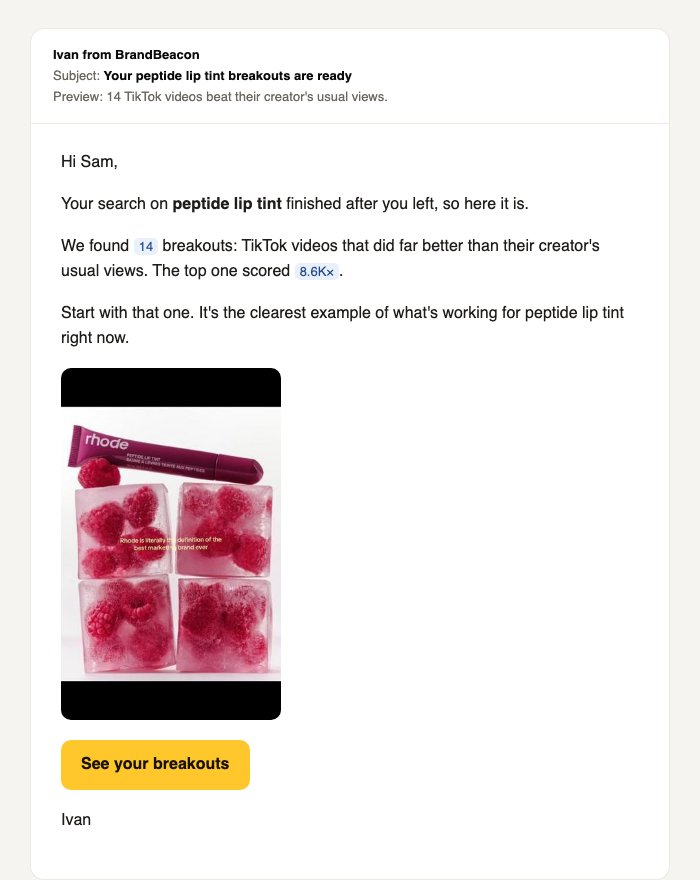
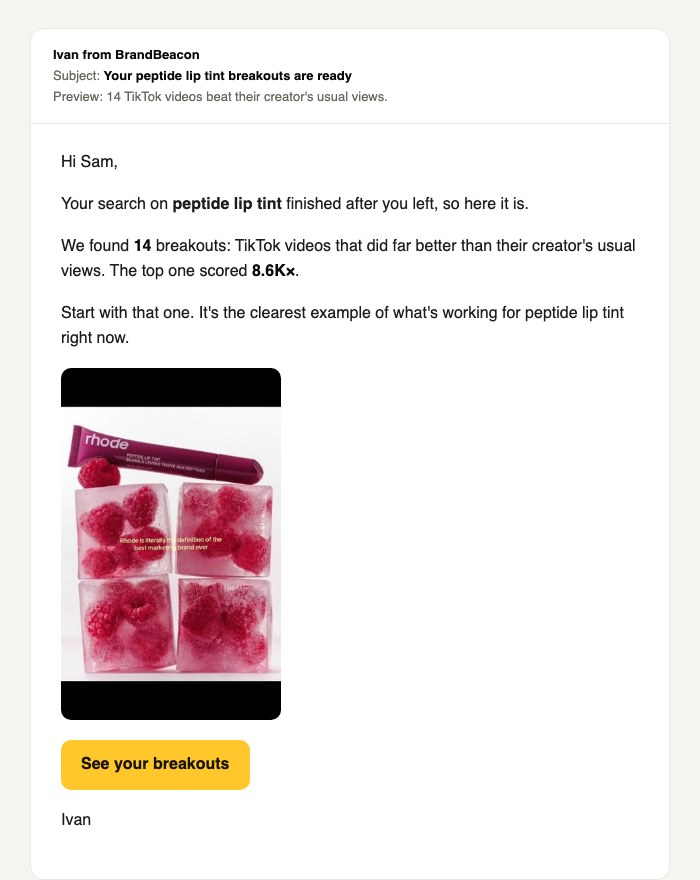
BB 3.0 email: numbers as plain bold text, email source kept in bb-3/src

Changed region(s): [[0.09, 0.2761, 0.9, 0.3375]]

diff --git a/bb-3/index.html b/bb-3/index.html
@@ -79,7 +79,7 @@ footer{max-width:1800px;margin:0 auto;padding:24px;color:var(--muted);font-size:
 <p>The designs are clickable. Press <b>Scroll inside</b> on any screen to scroll it like the real app, or open it full size. Numbers come from the real rhode skin run (18 Sep) unless marked <span class="sample">SAMPLE</span>.</p>
 <div class="chips"><a class="go" href="app.html" target="_blank" rel="noopener">Open the clickable prototype</a><a href="app.html#home" target="_blank" rel="noopener">Home</a><a href="app.html#home-typing" target="_blank" rel="noopener">Typing</a><a href="app.html#home-running" target="_blank" rel="noopener">Search running</a><a href="app.html#expand" target="_blank" rel="noopener">Keywords</a><a href="app.html#home-checklist" target="_blank" rel="noopener">Checklist</a><a href="app.html#results" target="_blank" rel="noopener">Results</a><a href="app.html#home-nofeed" target="_blank" rel="noopener">Home without feed</a><a href="first-search.html#a" target="_blank" rel="noopener">First search: A, B, C</a></div>
 </section>
-<section class="row" id="one-search"><h2><span class="num">1</span>One search for brands and products</h2><div class="pair"><div class="col"><figure class="shot"><figcaption><span class="pill">BEFORE</span>Search, live on 11 Oct<a href="../img/live-oct11-feed.jpg" target="_blank" rel="noopener">Open full size</a></figcaption><p class="cap">Brand / Product toggle, then Find breakouts</p><div class="imgwrap" style="max-height:260px"><img src="../img/live-oct11-feed.jpg" alt="Before: Search, live on 11 Oct" loading="lazy"></div></figure></div><div class="col stick"><figure class="shot"><figcaption><span class="pill after">AFTER</span>One box, account first<a href="app.html#home-typing" target="_blank" rel="noopener">Open full size</a></figcaption><div class="withnotes"><div class="scaler" data-w="1440" data-h="1932"><iframe data-page="app.html" data-state="home-typing" data-v="1791660109" src="app.html?shot&v=1791660109#home-typing" title="One box, account first" loading="lazy" width="1440" height="1932"></iframe></div><ol class="annot"><li data-frac="0.0200"><span class="n">1</span><b>No Brand / Product toggle.</b> One box: Search a brand, product or keyword. <i>Ivan, 6 Oct: "having one search. No picking, you just put the keyword."</i></li><li data-frac="0.0700"><span class="n">2</span><b>Ours:</b> if the term matches a TikTok account, it shows first in the dropdown.</li><li data-frac="0.1200"><span class="n">3</span>Find breakouts still opens the keyword step, as on live today (row 2).</li><li data-frac="0.1600"><span class="n">4</span>Brands and Products rows under the search, before typing. <i>Ivan, 6 Oct: "suggest brands, suggest products, suggest hashtags, maybe."</i></li></ol></div></figure></div></div><p class="ivan"><b>For Ivan:</b> when "rhode" matches @rhodeskin, should the results open as the brand page (as live does today), with keyword breakouts mixed in?</p></section><section class="row" id="suggestions"><h2><span class="num">2</span>Smarter keyword suggestions</h2><div class="pair"><div class="col"><figure class="shot"><figcaption><span class="pill">BEFORE</span>Keyword step, live on 11 Oct<a href="../img/live-oct11-expand-panel.jpg" target="_blank" rel="noopener">Open full size</a></figcaption><p class="cap">rhode still suggests rhode jewelry, earrings and necklace</p><div class="imgwrap"><img src="../img/live-oct11-expand-panel.jpg" alt="Before: Keyword step, live on 11 Oct" loading="lazy"></div></figure></div><div class="col stick"><figure class="shot"><figcaption><span class="pill after">AFTER</span>Same keyword step, smarter suggestions<a href="app.html#expand" target="_blank" rel="noopener">Open full size</a></figcaption><div class="withnotes"><div class="scaler" data-w="1440" data-h="2117"><iframe data-page="app.html" data-state="expand" data-v="1791660109" src="app.html?shot&v=1791660109#expand" title="Same keyword step, smarter suggestions" loading="lazy" width="1440" height="2117"></iframe></div><ol class="annot"><li data-frac="0.0100"><span class="n">1</span>Same panel as live, in place of the search box: Add keywords, Suggest different keywords, Add a keyword, Cancel, Run search.</li><li data-frac="0.0700"><span class="n">2</span><b>Keywords read the term</b>, so rhode gets lip tint, peptide lip treatment and glazing milk, not jewelry. <i>Ivan: "takes the current keyword and it reads it and then suggests keywords based on it."</i></li><li data-frac="0.1200"><span class="n">3</span><b>Similar brands</b> row. <i>Ivan: "here's a hot sauce keyword, give me all the hot sauce brands."</i></li></ol></div></figure></div></div><p class="ivan"><b>For Ivan:</b> hashtags in the suggestions too? You said "maybe" on the call; on 30 Sep you said we search keywords only, so they are out of this mock.</p></section><section class="row" id="results-data"><h2><span class="num">3</span>Results page data</h2><div class="pair"><div class="col"><figure class="shot"><figcaption><span class="pill">BEFORE</span>Results, live on 11 Oct<a href="../img/live-oct11-results.jpg" target="_blank" rel="noopener">Open full size</a></figcaption><p class="cap">Breakouts this refresh, Top Breakout Score, Last refresh</p><div class="imgwrap" style="max-height:1000px"><img src="../img/live-oct11-results.jpg" alt="Before: Results, live on 11 Oct" loading="lazy"></div></figure></div><div class="col stick"><figure class="shot"><figcaption><span class="pill after">AFTER</span>Live results page, new top numbers<a href="app.html#results" target="_blank" rel="noopener">Open full size</a></figcaption><div class="withnotes"><div class="scaler" data-w="1440" data-h="2192"><iframe data-page="app.html" data-state="results" data-v="1791660109" src="app.html?shot&v=1791660109#results" title="Live results page, new top numbers" loading="lazy" width="1440" height="2192"></iframe></div><ol class="annot"><li data-frac="0.0300"><span class="n">1</span>Header, Export creator list, save, WEEKLY, last run and next refresh, Ready: all as live.</li><li data-frac="0.1000"><span class="n">2</span><b>Average Breakout Score</b> replaces the Last refresh box (last and next run are already in the header). <i>Ivan, 6 Oct: "number of breakouts in this run. Average breakout score."</i> The value is a sample.</li><li data-frac="0.1700"><span class="n">3</span>Quiet second line: videos this run, new this run, top views, average views, first run. <i>Ivan: "top views, average views, and then top score, average score."</i></li><li data-frac="0.2100"><span class="n">4</span>Tabs, New this run and Breakout Score filters, cards with all four stats, Analyze and save: as live.</li><li data-frac="0.9400"><span class="n">5</span>Insights, AI summary, Analytics, When they post, More data and Hashtags: unchanged from live.</li></ol></div></figure></div></div><p class="ivan"><b>For Ivan:</b> average Breakout Score, as you said? Our suggestion was median, since one 8.6K× video pulls an average far above a typical breakout (40 of the 55 sit between 3× and 8×).</p></section><section class="row" id="sidebar"><h2><span class="num">4</span>Left sidebar: saved searches, video analyses, search history</h2><div class="pair"><div class="col"><figure class="shot"><figcaption><span class="pill">BEFORE</span>Sidebar, live on 11 Oct<a href="../img/live-oct11-sidebar.jpg" target="_blank" rel="noopener">Open full size</a></figcaption><p class="cap">My Feed, Brand searches, Product searches, Library, Breakdowns</p><div class="imgwrap"><img src="../img/live-oct11-sidebar.jpg" alt="Before: Sidebar, live on 11 Oct" loading="lazy" style="width:auto;max-width:min(100%,252px);margin:16px auto;border-radius:12px"></div></figure></div><div class="col stick"><figure class="shot"><figcaption><span class="pill after">AFTER</span>Library items up front<a href="app.html#home-running" target="_blank" rel="noopener">Open full size</a></figcaption><div class="withnotes"><div class="scaler" data-w="1440" data-h="1932"><iframe data-page="app.html" data-state="home-running" data-v="1791660109" src="app.html?shot&v=1791660109#home-running" title="Library items up front" loading="lazy" width="1440" height="1932"></iframe></div><ol class="annot"><li data-frac="0.0200"><span class="n">1</span><b>Saved searches, Saved videos, Video analyses, Search history</b> up front: the four Library tabs. <i>Ivan, 6 Oct: "why hide them behind the library if we can just put them up front?"</i></li><li data-frac="0.0800"><span class="n">2</span>Brand searches and Product searches become one Saved searches list, since search is now one box.</li><li data-frac="0.1300"><span class="n">3</span><b>Ours:</b> a search that is still running shows here with a progress bar, then a toast when it is ready.</li><li data-frac="0.8600"><span class="n">4</span><b>Searches added</b> next to Breakdowns (live shows searches only on Library and mobile). <i>Ivan: "searches, breakdowns, etc. in this little bar."</i></li></ol></div></figure></div></div><p class="ivan"><b>For Ivan:</b> keep a Library page for its filters and manage options, reached from "See all" in each list?</p></section><section class="row" id="my-feed"><h2><span class="num">5</span>My Feed: keep, or replace with search terms</h2><div class="pair"><div class="col"><figure class="shot"><figcaption><span class="pill">BEFORE</span>My Feed, live on 11 Oct<a href="../img/live-oct11-feed.jpg" target="_blank" rel="noopener">Open full size</a></figcaption><p class="cap">One column feed with This week, Your searches, Hashtags and Climbing</p><div class="imgwrap" style="max-height:900px"><img src="../img/live-oct11-feed.jpg" alt="Before: My Feed, live on 11 Oct" loading="lazy"></div></figure></div><div class="col stick"><figure class="shot"><figcaption><span class="pill after">AFTER</span>Keep: My Feed as live<a href="app.html#home" target="_blank" rel="noopener">Open full size</a></figcaption><div class="withnotes"><div class="scaler" data-w="1440" data-h="1932"><iframe data-page="app.html" data-state="home" data-v="1791660109" src="app.html?shot&v=1791660109#home" title="Keep: My Feed as live" loading="lazy" width="1440" height="1932"></iframe></div><ol class="annot"><li data-frac="0.0200"><span class="n">1</span>Only the search box changes (rows 1 and 2).</li><li data-frac="0.1800"><span class="n">2</span>Feed cards, Load more and the right sidebar stay exactly as live.</li></ol></div></figure><figure class="shot"><figcaption><span class="pill after">AFTER</span>Remove: Home without the feed <span class="tag pick">Our pick</span><a href="app.html#home-nofeed" target="_blank" rel="noopener">Open full size</a></figcaption><div class="withnotes"><div class="scaler" data-w="1440" data-h="1053"><iframe data-page="app.html" data-state="home-nofeed" data-v="1791660109" src="app.html?shot&v=1791660109#home-nofeed" title="Remove: Home without the feed" loading="lazy" width="1440" height="1053"></iframe></div><ol class="annot"><li data-frac="0.0400"><span class="n">1</span>Search and suggestions, then one row of 3 new breakouts from saved searches.</li><li data-frac="0.3000"><span class="n">2</span>Reads stored results only, so it opens instantly.</li></ol></div></figure></div></div><p class="ivan"><b>For Ivan:</b> keep My Feed or remove it? On the call: "I don't even know if we should have one. I think we should just have search terms." Both versions are above.</p></section><section class="row" id="onboarding"><h2><span class="num">6</span>Onboarding checklist</h2><div class="pair"><div class="col"><figure class="shot"><figcaption><span class="pill">BEFORE</span>Onboarding</figcaption><div class="none"><b>Not in the live app</b>Not on live: new accounts land on My Feed with no next step.</div></figure></div><div class="col stick"><figure class="shot"><figcaption><span class="pill after">AFTER</span>Get started, from the sidebar<a href="app.html#home-checklist" target="_blank" rel="noopener">Open full size</a></figcaption><div class="withnotes"><div class="scaler" data-w="1440" data-h="1932"><iframe data-page="app.html" data-state="home-checklist" data-v="1791660109" src="app.html?shot&v=1791660109#home-checklist" title="Get started, from the sidebar" loading="lazy" width="1440" height="1932"></iframe></div><ol class="annot"><li data-frac="0.8000"><span class="n">1</span>A <b>1 of 4 done</b> card above the usage meters; click to see the steps. <i>Ivan, 6 Oct: "do your first brand search, do your first analysis, do your first whatever."</i></li><li data-frac="0.8400"><span class="n">2</span>Steps: run a search, analyze a video, save a search, save a video. All four exist on live today.</li><li data-frac="0.8800"><span class="n">3</span>It goes away once all four are done.</li></ol></div></figure></div></div><p class="ivan"><b>For Ivan:</b> Free gets 0 video analyses today, so a Free user can't finish "Analyze a video". Give Free one analysis, or swap that step out for Free?</p></section><section class="row" id="first-search"><h2><span class="num">7</span>First search journey: where BB drops people after Run search</h2><div class="pair"><div class="col"><figure class="shot"><figcaption><span class="pill">BEFORE</span>After Run search, live on 22 Sep<a href="../user-flow/img/bb-building.jpg" target="_blank" rel="noopener">Open full size</a></figcaption><p class="cap">A loading page with nothing to do while the report builds</p><div class="imgwrap"><img src="../user-flow/img/bb-building.jpg" alt="Before: After Run search, live on 22 Sep" loading="lazy" style="width:auto;max-width:min(100%,420px);margin:16px auto;border-radius:12px"></div></figure></div><div class="col stick"><figure class="shot"><figcaption><span class="pill after">AFTER</span>A. Wait and learn <span class="tag pick">Pick: first search</span><a href="first-search.html#a" target="_blank" rel="noopener">Open full size</a></figcaption><div class="withnotes"><div class="scaler" data-w="1440" data-h="1219"><iframe data-page="first-search.html" data-state="a" data-v="1791660109" src="first-search.html?shot&v=1791660109#a" title="A. Wait and learn" loading="lazy" width="1440" height="1219"></iframe></div><ol class="annot"><li data-frac="0.0800"><span class="n">1</span>Three steps that say what is happening, like UGC Breakouts processing.</li><li data-frac="0.2600"><span class="n">2</span><b>Email me when it is ready</b> is on by default and says they can leave.</li><li data-frac="0.3800"><span class="n">3</span>A <b>How to read your results</b> video, so the Breakout Score makes sense when results land.</li><li data-frac="0.5000"><span class="n">4</span>Then breakouts other searches found this week.</li></ol></div></figure><figure class="shot"><figcaption><span class="pill after">AFTER</span>B. Back to Home and keep browsing <span class="tag">Ivan's idea</span><a href="first-search.html#b" target="_blank" rel="noopener">Open full size</a></figcaption><div class="withnotes"><div class="scaler" data-w="1440" data-h="900"><iframe data-page="first-search.html" data-state="b" data-v="1791660109" src="first-search.html?shot&v=1791660109#b" title="B. Back to Home and keep browsing" loading="lazy" width="1440" height="900"></iframe></div><ol class="annot"><li data-frac="0.0300"><span class="n">1</span>Run search lands on Home. A slim bar says it is running, with See progress.</li><li data-frac="0.2800"><span class="n">2</span><b>Pick for every search after the first.</b> On the first one, the browse row is easy to misread as their results.</li></ol></div></figure><figure class="shot"><figcaption><span class="pill after">AFTER</span>C. Results appear as they are found <span class="tag">Needs Lester</span><a href="first-search.html#c" target="_blank" rel="noopener">Open full size</a></figcaption><div class="withnotes"><div class="scaler" data-w="1440" data-h="900"><iframe data-page="first-search.html" data-state="c" data-v="1791660109" src="first-search.html?shot&v=1791660109#c" title="C. Results appear as they are found" loading="lazy" width="1440" height="900"></iframe></div><ol class="annot"><li data-frac="0.0800"><span class="n">1</span><b>2 breakouts so far. Still checking 140 of 200 videos.</b></li><li data-frac="0.3300"><span class="n">2</span>No empty wait. Depends on scoring videos one at a time (Lester).</li></ol></div></figure><figure class="shot"><figcaption><span class="pill after">AFTER</span>Ready, the same for A, B and C<a href="first-search.html#ready" target="_blank" rel="noopener">Open full size</a></figcaption><div class="withnotes"><div class="scaler" data-w="1440" data-h="900"><iframe data-page="first-search.html" data-state="ready" data-v="1791660109" src="first-search.html?shot&v=1791660109#ready" title="Ready, the same for A, B and C" loading="lazy" width="1440" height="900"></iframe></div><ol class="annot"><li data-frac="0.0800"><span class="n">1</span>All three keep the search in the sidebar, email when it is ready, and end here.</li><li data-frac="0.2200"><span class="n">2</span>Thumbnails reuse the rhode skin run; "usually 1 to 2 minutes" is from the 22 Sep test.</li></ol></div></figure></div></div><p class="ivan"><b>For Ivan:</b> A for the first search, B for every search after that? And is the how-to video the one from the UGC Breakouts processing screen, or a BB version?</p></section><section class="row" id="first-email"><h2><span class="num">8</span>First search complete email</h2><div class="pair"><div class="col"><figure class="shot"><figcaption><span class="pill">BEFORE</span>Results ready email</figcaption><div class="none"><b>Not in the live app</b>B1 Results ready was drafted in the free flow emails, not confirmed live.</div></figure></div><div class="col stick"><figure class="shot"><figcaption><span class="pill after">AFTER</span>Sent once, after the first search<a href="shots/first-email.jpg" target="_blank" rel="noopener">Open full size</a></figcaption><div class="withnotes"><div class="static"><img src="shots/first-email.jpg" alt="Sent once, after the first search" loading="lazy"></div><ol class="annot flow"><li data-frac="0.0000"><span class="n">1</span>Trigger: the first search completes. Once per account. Skipped if they already opened the results.</li><li data-frac="0.0000"><span class="n">2</span>Subject: "Your {{search_term}} breakouts are ready". Preview: "{{breakout_count}} TikTok videos beat their creator's usual views."</li><li data-frac="0.0000"><span class="n">3</span>One picture (the top video's still), one button, signed by Ivan.</li><li data-frac="0.0000"><span class="n">4</span>Replaces B1 Results ready, written for someone who left. Searches-left line dropped.</li><li data-frac="0.0000"><span class="n">5</span>For Lester: search_completed (first one); merge tags first_name, search_term, breakout_count, top_score, top_video_thumb, results_url. 14 and 8.6K× are samples.</li></ol></div></figure></div></div><p class="ivan"><b>For Ivan:</b> did B1 ever go live? If it did, this is a copy change only.</p></section>
+<section class="row" id="one-search"><h2><span class="num">1</span>One search for brands and products</h2><div class="pair"><div class="col"><figure class="shot"><figcaption><span class="pill">BEFORE</span>Search, live on 11 Oct<a href="../img/live-oct11-feed.jpg" target="_blank" rel="noopener">Open full size</a></figcaption><p class="cap">Brand / Product toggle, then Find breakouts</p><div class="imgwrap" style="max-height:260px"><img src="../img/live-oct11-feed.jpg" alt="Before: Search, live on 11 Oct" loading="lazy"></div></figure></div><div class="col stick"><figure class="shot"><figcaption><span class="pill after">AFTER</span>One box, account first<a href="app.html#home-typing" target="_blank" rel="noopener">Open full size</a></figcaption><div class="withnotes"><div class="scaler" data-w="1440" data-h="1932"><iframe data-page="app.html" data-state="home-typing" data-v="1791660482" src="app.html?shot&v=1791660482#home-typing" title="One box, account first" loading="lazy" width="1440" height="1932"></iframe></div><ol class="annot"><li data-frac="0.0200"><span class="n">1</span><b>No Brand / Product toggle.</b> One box: Search a brand, product or keyword. <i>Ivan, 6 Oct: "having one search. No picking, you just put the keyword."</i></li><li data-frac="0.0700"><span class="n">2</span><b>Ours:</b> if the term matches a TikTok account, it shows first in the dropdown.</li><li data-frac="0.1200"><span class="n">3</span>Find breakouts still opens the keyword step, as on live today (row 2).</li><li data-frac="0.1600"><span class="n">4</span>Brands and Products rows under the search, before typing. <i>Ivan, 6 Oct: "suggest brands, suggest products, suggest hashtags, maybe."</i></li></ol></div></figure></div></div><p class="ivan"><b>For Ivan:</b> when "rhode" matches @rhodeskin, should the results open as the brand page (as live does today), with keyword breakouts mixed in?</p></section><section class="row" id="suggestions"><h2><span class="num">2</span>Smarter keyword suggestions</h2><div class="pair"><div class="col"><figure class="shot"><figcaption><span class="pill">BEFORE</span>Keyword step, live on 11 Oct<a href="../img/live-oct11-expand-panel.jpg" target="_blank" rel="noopener">Open full size</a></figcaption><p class="cap">rhode still suggests rhode jewelry, earrings and necklace</p><div class="imgwrap"><img src="../img/live-oct11-expand-panel.jpg" alt="Before: Keyword step, live on 11 Oct" loading="lazy"></div></figure></div><div class="col stick"><figure class="shot"><figcaption><span class="pill after">AFTER</span>Same keyword step, smarter suggestions<a href="app.html#expand" target="_blank" rel="noopener">Open full size</a></figcaption><div class="withnotes"><div class="scaler" data-w="1440" data-h="2117"><iframe data-page="app.html" data-state="expand" data-v="1791660482" src="app.html?shot&v=1791660482#expand" title="Same keyword step, smarter suggestions" loading="lazy" width="1440" height="2117"></iframe></div><ol class="annot"><li data-frac="0.0100"><span class="n">1</span>Same panel as live, in place of the search box: Add keywords, Suggest different keywords, Add a keyword, Cancel, Run search.</li><li data-frac="0.0700"><span class="n">2</span><b>Keywords read the term</b>, so rhode gets lip tint, peptide lip treatment and glazing milk, not jewelry. <i>Ivan: "takes the current keyword and it reads it and then suggests keywords based on it."</i></li><li data-frac="0.1200"><span class="n">3</span><b>Similar brands</b> row. <i>Ivan: "here's a hot sauce keyword, give me all the hot sauce brands."</i></li></ol></div></figure></div></div><p class="ivan"><b>For Ivan:</b> hashtags in the suggestions too? You said "maybe" on the call; on 30 Sep you said we search keywords only, so they are out of this mock.</p></section><section class="row" id="results-data"><h2><span class="num">3</span>Results page data</h2><div class="pair"><div class="col"><figure class="shot"><figcaption><span class="pill">BEFORE</span>Results, live on 11 Oct<a href="../img/live-oct11-results.jpg" target="_blank" rel="noopener">Open full size</a></figcaption><p class="cap">Breakouts this refresh, Top Breakout Score, Last refresh</p><div class="imgwrap" style="max-height:1000px"><img src="../img/live-oct11-results.jpg" alt="Before: Results, live on 11 Oct" loading="lazy"></div></figure></div><div class="col stick"><figure class="shot"><figcaption><span class="pill after">AFTER</span>Live results page, new top numbers<a href="app.html#results" target="_blank" rel="noopener">Open full size</a></figcaption><div class="withnotes"><div class="scaler" data-w="1440" data-h="2192"><iframe data-page="app.html" data-state="results" data-v="1791660482" src="app.html?shot&v=1791660482#results" title="Live results page, new top numbers" loading="lazy" width="1440" height="2192"></iframe></div><ol class="annot"><li data-frac="0.0300"><span class="n">1</span>Header, Export creator list, save, WEEKLY, last run and next refresh, Ready: all as live.</li><li data-frac="0.1000"><span class="n">2</span><b>Average Breakout Score</b> replaces the Last refresh box (last and next run are already in the header). <i>Ivan, 6 Oct: "number of breakouts in this run. Average breakout score."</i> The value is a sample.</li><li data-frac="0.1700"><span class="n">3</span>Quiet second line: videos this run, new this run, top views, average views, first run. <i>Ivan: "top views, average views, and then top score, average score."</i></li><li data-frac="0.2100"><span class="n">4</span>Tabs, New this run and Breakout Score filters, cards with all four stats, Analyze and save: as live.</li><li data-frac="0.9400"><span class="n">5</span>Insights, AI summary, Analytics, When they post, More data and Hashtags: unchanged from live.</li></ol></div></figure></div></div><p class="ivan"><b>For Ivan:</b> average Breakout Score, as you said? Our suggestion was median, since one 8.6K× video pulls an average far above a typical breakout (40 of the 55 sit between 3× and 8×).</p></section><section class="row" id="sidebar"><h2><span class="num">4</span>Left sidebar: saved searches, video analyses, search history</h2><div class="pair"><div class="col"><figure class="shot"><figcaption><span class="pill">BEFORE</span>Sidebar, live on 11 Oct<a href="../img/live-oct11-sidebar.jpg" target="_blank" rel="noopener">Open full size</a></figcaption><p class="cap">My Feed, Brand searches, Product searches, Library, Breakdowns</p><div class="imgwrap"><img src="../img/live-oct11-sidebar.jpg" alt="Before: Sidebar, live on 11 Oct" loading="lazy" style="width:auto;max-width:min(100%,252px);margin:16px auto;border-radius:12px"></div></figure></div><div class="col stick"><figure class="shot"><figcaption><span class="pill after">AFTER</span>Library items up front<a href="app.html#home-running" target="_blank" rel="noopener">Open full size</a></figcaption><div class="withnotes"><div class="scaler" data-w="1440" data-h="1932"><iframe data-page="app.html" data-state="home-running" data-v="1791660482" src="app.html?shot&v=1791660482#home-running" title="Library items up front" loading="lazy" width="1440" height="1932"></iframe></div><ol class="annot"><li data-frac="0.0200"><span class="n">1</span><b>Saved searches, Saved videos, Video analyses, Search history</b> up front: the four Library tabs. <i>Ivan, 6 Oct: "why hide them behind the library if we can just put them up front?"</i></li><li data-frac="0.0800"><span class="n">2</span>Brand searches and Product searches become one Saved searches list, since search is now one box.</li><li data-frac="0.1300"><span class="n">3</span><b>Ours:</b> a search that is still running shows here with a progress bar, then a toast when it is ready.</li><li data-frac="0.8600"><span class="n">4</span><b>Searches added</b> next to Breakdowns (live shows searches only on Library and mobile). <i>Ivan: "searches, breakdowns, etc. in this little bar."</i></li></ol></div></figure></div></div><p class="ivan"><b>For Ivan:</b> keep a Library page for its filters and manage options, reached from "See all" in each list?</p></section><section class="row" id="my-feed"><h2><span class="num">5</span>My Feed: keep, or replace with search terms</h2><div class="pair"><div class="col"><figure class="shot"><figcaption><span class="pill">BEFORE</span>My Feed, live on 11 Oct<a href="../img/live-oct11-feed.jpg" target="_blank" rel="noopener">Open full size</a></figcaption><p class="cap">One column feed with This week, Your searches, Hashtags and Climbing</p><div class="imgwrap" style="max-height:900px"><img src="../img/live-oct11-feed.jpg" alt="Before: My Feed, live on 11 Oct" loading="lazy"></div></figure></div><div class="col stick"><figure class="shot"><figcaption><span class="pill after">AFTER</span>Keep: My Feed as live<a href="app.html#home" target="_blank" rel="noopener">Open full size</a></figcaption><div class="withnotes"><div class="scaler" data-w="1440" data-h="1932"><iframe data-page="app.html" data-state="home" data-v="1791660482" src="app.html?shot&v=1791660482#home" title="Keep: My Feed as live" loading="lazy" width="1440" height="1932"></iframe></div><ol class="annot"><li data-frac="0.0200"><span class="n">1</span>Only the search box changes (rows 1 and 2).</li><li data-frac="0.1800"><span class="n">2</span>Feed cards, Load more and the right sidebar stay exactly as live.</li></ol></div></figure><figure class="shot"><figcaption><span class="pill after">AFTER</span>Remove: Home without the feed <span class="tag pick">Our pick</span><a href="app.html#home-nofeed" target="_blank" rel="noopener">Open full size</a></figcaption><div class="withnotes"><div class="scaler" data-w="1440" data-h="1053"><iframe data-page="app.html" data-state="home-nofeed" data-v="1791660482" src="app.html?shot&v=1791660482#home-nofeed" title="Remove: Home without the feed" loading="lazy" width="1440" height="1053"></iframe></div><ol class="annot"><li data-frac="0.0400"><span class="n">1</span>Search and suggestions, then one row of 3 new breakouts from saved searches.</li><li data-frac="0.3000"><span class="n">2</span>Reads stored results only, so it opens instantly.</li></ol></div></figure></div></div><p class="ivan"><b>For Ivan:</b> keep My Feed or remove it? On the call: "I don't even know if we should have one. I think we should just have search terms." Both versions are above.</p></section><section class="row" id="onboarding"><h2><span class="num">6</span>Onboarding checklist</h2><div class="pair"><div class="col"><figure class="shot"><figcaption><span class="pill">BEFORE</span>Onboarding</figcaption><div class="none"><b>Not in the live app</b>Not on live: new accounts land on My Feed with no next step.</div></figure></div><div class="col stick"><figure class="shot"><figcaption><span class="pill after">AFTER</span>Get started, from the sidebar<a href="app.html#home-checklist" target="_blank" rel="noopener">Open full size</a></figcaption><div class="withnotes"><div class="scaler" data-w="1440" data-h="1932"><iframe data-page="app.html" data-state="home-checklist" data-v="1791660482" src="app.html?shot&v=1791660482#home-checklist" title="Get started, from the sidebar" loading="lazy" width="1440" height="1932"></iframe></div><ol class="annot"><li data-frac="0.8000"><span class="n">1</span>A <b>1 of 4 done</b> card above the usage meters; click to see the steps. <i>Ivan, 6 Oct: "do your first brand search, do your first analysis, do your first whatever."</i></li><li data-frac="0.8400"><span class="n">2</span>Steps: run a search, analyze a video, save a search, save a video. All four exist on live today.</li><li data-frac="0.8800"><span class="n">3</span>It goes away once all four are done.</li></ol></div></figure></div></div><p class="ivan"><b>For Ivan:</b> Free gets 0 video analyses today, so a Free user can't finish "Analyze a video". Give Free one analysis, or swap that step out for Free?</p></section><section class="row" id="first-search"><h2><span class="num">7</span>First search journey: where BB drops people after Run search</h2><div class="pair"><div class="col"><figure class="shot"><figcaption><span class="pill">BEFORE</span>After Run search, live on 22 Sep<a href="../user-flow/img/bb-building.jpg" target="_blank" rel="noopener">Open full size</a></figcaption><p class="cap">A loading page with nothing to do while the report builds</p><div class="imgwrap"><img src="../user-flow/img/bb-building.jpg" alt="Before: After Run search, live on 22 Sep" loading="lazy" style="width:auto;max-width:min(100%,420px);margin:16px auto;border-radius:12px"></div></figure></div><div class="col stick"><figure class="shot"><figcaption><span class="pill after">AFTER</span>A. Wait and learn <span class="tag pick">Pick: first search</span><a href="first-search.html#a" target="_blank" rel="noopener">Open full size</a></figcaption><div class="withnotes"><div class="scaler" data-w="1440" data-h="1219"><iframe data-page="first-search.html" data-state="a" data-v="1791660482" src="first-search.html?shot&v=1791660482#a" title="A. Wait and learn" loading="lazy" width="1440" height="1219"></iframe></div><ol class="annot"><li data-frac="0.0800"><span class="n">1</span>Three steps that say what is happening, like UGC Breakouts processing.</li><li data-frac="0.2600"><span class="n">2</span><b>Email me when it is ready</b> is on by default and says they can leave.</li><li data-frac="0.3800"><span class="n">3</span>A <b>How to read your results</b> video, so the Breakout Score makes sense when results land.</li><li data-frac="0.5000"><span class="n">4</span>Then breakouts other searches found this week.</li></ol></div></figure><figure class="shot"><figcaption><span class="pill after">AFTER</span>B. Back to Home and keep browsing <span class="tag">Ivan's idea</span><a href="first-search.html#b" target="_blank" rel="noopener">Open full size</a></figcaption><div class="withnotes"><div class="scaler" data-w="1440" data-h="900"><iframe data-page="first-search.html" data-state="b" data-v="1791660482" src="first-search.html?shot&v=1791660482#b" title="B. Back to Home and keep browsing" loading="lazy" width="1440" height="900"></iframe></div><ol class="annot"><li data-frac="0.0300"><span class="n">1</span>Run search lands on Home. A slim bar says it is running, with See progress.</li><li data-frac="0.2800"><span class="n">2</span><b>Pick for every search after the first.</b> On the first one, the browse row is easy to misread as their results.</li></ol></div></figure><figure class="shot"><figcaption><span class="pill after">AFTER</span>C. Results appear as they are found <span class="tag">Needs Lester</span><a href="first-search.html#c" target="_blank" rel="noopener">Open full size</a></figcaption><div class="withnotes"><div class="scaler" data-w="1440" data-h="900"><iframe data-page="first-search.html" data-state="c" data-v="1791660482" src="first-search.html?shot&v=1791660482#c" title="C. Results appear as they are found" loading="lazy" width="1440" height="900"></iframe></div><ol class="annot"><li data-frac="0.0800"><span class="n">1</span><b>2 breakouts so far. Still checking 140 of 200 videos.</b></li><li data-frac="0.3300"><span class="n">2</span>No empty wait. Depends on scoring videos one at a time (Lester).</li></ol></div></figure><figure class="shot"><figcaption><span class="pill after">AFTER</span>Ready, the same for A, B and C<a href="first-search.html#ready" target="_blank" rel="noopener">Open full size</a></figcaption><div class="withnotes"><div class="scaler" data-w="1440" data-h="900"><iframe data-page="first-search.html" data-state="ready" data-v="1791660482" src="first-search.html?shot&v=1791660482#ready" title="Ready, the same for A, B and C" loading="lazy" width="1440" height="900"></iframe></div><ol class="annot"><li data-frac="0.0800"><span class="n">1</span>All three keep the search in the sidebar, email when it is ready, and end here.</li><li data-frac="0.2200"><span class="n">2</span>Thumbnails reuse the rhode skin run; "usually 1 to 2 minutes" is from the 22 Sep test.</li></ol></div></figure></div></div><p class="ivan"><b>For Ivan:</b> A for the first search, B for every search after that? And is the how-to video the one from the UGC Breakouts processing screen, or a BB version?</p></section><section class="row" id="first-email"><h2><span class="num">8</span>First search complete email</h2><div class="pair"><div class="col"><figure class="shot"><figcaption><span class="pill">BEFORE</span>Results ready email</figcaption><div class="none"><b>Not in the live app</b>B1 Results ready was drafted in the free flow emails, not confirmed live.</div></figure></div><div class="col stick"><figure class="shot"><figcaption><span class="pill after">AFTER</span>Sent once, after the first search<a href="shots/first-email.jpg" target="_blank" rel="noopener">Open full size</a></figcaption><div class="withnotes"><div class="static"><img src="shots/first-email.jpg?v=1791660482" alt="Sent once, after the first search" loading="lazy"></div><ol class="annot flow"><li data-frac="0.0000"><span class="n">1</span>Trigger: the first search completes. Once per account. Skipped if they already opened the results.</li><li data-frac="0.0000"><span class="n">2</span>Subject: "Your {{search_term}} breakouts are ready". Preview: "{{breakout_count}} TikTok videos beat their creator's usual views."</li><li data-frac="0.0000"><span class="n">3</span>One picture (the top video's still), one button, signed by Ivan.</li><li data-frac="0.0000"><span class="n">4</span>Replaces B1 Results ready, written for someone who left. Searches-left line dropped.</li><li data-frac="0.0000"><span class="n">5</span>For Lester: search_completed (first one); merge tags first_name, search_term, breakout_count, top_score, top_video_thumb, results_url. 14 and 8.6K× are samples.</li></ol></div></figure></div></div><p class="ivan"><b>For Ivan:</b> did B1 ever go live? If it did, this is a copy change only.</p></section>
 </main>
 <footer>The reasons and competitor notes behind each pick are in the <a href="https://docs.google.com/document/d/1RC3jywBBYKvj5XdEBHXkDCML3vXBOUW6a2Aqc02ulnA/edit" target="_blank" rel="noopener">BB 3.0 Questions Doc</a>. The free flow emails are in the <a href="https://docs.google.com/document/d/1XbB4VjZY8-mr9k32FR8XjxlnrXy6caANthXTwaBgIiw/edit" target="_blank" rel="noopener">Free Flow Emails Doc</a>.</footer>
 <script>

diff --git a/bb-3/src/email.html b/bb-3/src/email.html
@@ -1,0 +1,21 @@
+<!doctype html><html><head><meta charset="utf-8"><style>
+body{margin:0;background:#F5F4F0;font-family:-apple-system,'Segoe UI',Helvetica,Arial,sans-serif;color:#1F1D1A}
+.frame{width:640px;margin:0 auto;padding:28px 0}
+.hd{background:#fff;border:1px solid #ECE9E1;border-radius:14px 14px 0 0;padding:16px 22px;font-size:13px;color:#6B675F;line-height:1.6}
+.hd b{color:#0B0B0B}
+.bd{background:#fff;border:1px solid #ECE9E1;border-top:0;border-radius:0 0 14px 14px;padding:26px 30px 30px;font-size:16px;line-height:1.6}
+.bd p{margin:0 0 16px}
+.pic{display:block;width:220px;border-radius:10px;margin:4px 0 18px}
+.btn{display:inline-block;background:#FFC72C;color:#1A1300;font-weight:700;padding:12px 20px;border-radius:10px;text-decoration:none;margin:2px 0 18px}
+.num{font-weight:700;color:#0B0B0B}
+</style></head><body><div class="frame">
+<div class="hd"><b>Ivan from BrandBeacon</b><br>Subject: <b>Your peptide lip tint breakouts are ready</b><br>Preview: 14 TikTok videos beat their creator's usual views.</div>
+<div class="bd">
+<p>Hi Sam,</p>
+<p>Your search on <b>peptide lip tint</b> finished after you left, so here it is.</p>
+<p>We found <b class="num">14</b> breakouts: TikTok videos that did far better than their creator's usual views. The top one scored <b class="num">8.6K×</b>.</p>
+<p>Start with that one. It's the clearest example of what's working for peptide lip tint right now.</p>
+<img class="pic" src="../../img/v1.jpg" alt="">
+<a class="btn">See your breakouts</a>
+<p>Ivan</p>
+</div></div></body></html>

diff --git a/bb-3/src/build-index.py b/bb-3/src/build-index.py
@@ -52,7 +52,7 @@ def after(page, state, h, title, items, tag="", cap=""):
 def after_img(img, title, items):
     return (f'<figure class="shot"><figcaption><span class="pill after">AFTER</span>{title}'
             f'<a href="{img}" target="_blank" rel="noopener">Open full size</a></figcaption>'
-            f'<div class="withnotes"><div class="static"><img src="{img}" alt="{html.escape(title)}" loading="lazy"></div>'
+            f'<div class="withnotes"><div class="static"><img src="{img}?v={VER}" alt="{html.escape(title)}" loading="lazy"></div>'
             f'{notes(items, "annot flow")}</div></figure>')
 
 def row(n, rid, h2, left, right, ask, extra=""):
